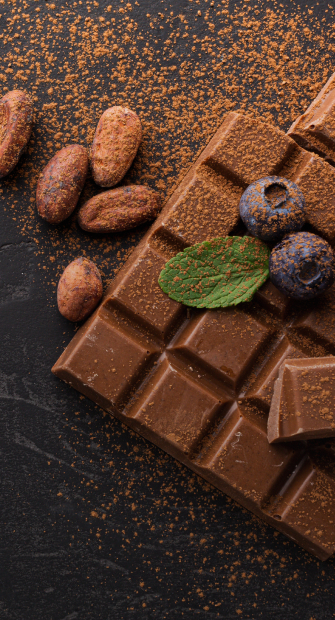
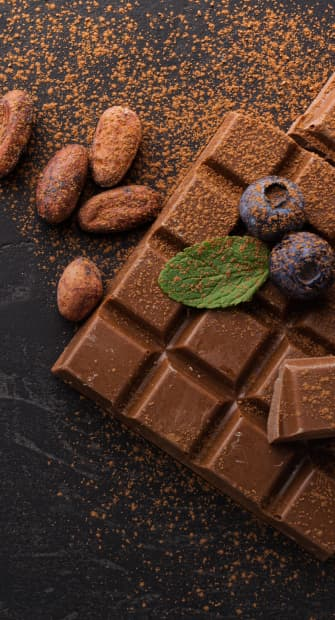
se agrego optimizacion a las imagenes

diff --git a/css/main.min.css b/css/main.min.css
@@ -1,1 +1,1 @@
-body{background-color:#fafafa}.modalDialog{position:fixed;font-family:Arial,Helvetica,sans-serif;top:0;right:0;bottom:0;left:0;background:rgba(0,0,0,.8);z-index:99999;opacity:0;-webkit-transition:opacity 400ms ease-in;-moz-transition:opacity 400ms ease-in;transition:opacity 400ms ease-in;pointer-events:none}.modalDialog:target{opacity:1;pointer-events:auto}.modalDialog>div{width:335px;position:relative;margin:10% auto;padding:28px;border-radius:15px;background:#fff;color:#111}.close{background:#606061;color:#fff;line-height:25px;position:absolute;right:-12px;text-align:center;top:-10px;width:24px;text-decoration:none;font-weight:bold;-webkit-border-radius:12px;-moz-border-radius:12px;border-radius:12px;-moz-box-shadow:1px 1px 3px #000;-webkit-box-shadow:1px 1px 3px #000;box-shadow:1px 1px 3px #000}.close:hover{background:#00d9ff}.link{text-decoration:none}.icon__header{fill:#fff;margin-top:7px}.icon__mobil-redes{fill:#fff;margin-top:395px}.icon__our{fill:#fd9222;border-radius:365px;padding:1px;border:3px solid rgba(255,255,255,.5)}.container__header{margin:0 auto;width:375px;height:50px;flex-shrink:0;padding-left:15px;padding-right:15px;outline:none;line-height:1.5;color:#212121;background-color:#fff;padding-bottom:145px;display:flex;align-items:center;justify-content:flex-start;padding-top:25px}.menu-toggle{margin-left:125px;margin-top:10px}.menu-toggle:hover,.menu-toggle:focus{background-color:rgba(0,0,0,.1)}.menu-container{position:fixed;top:0;left:0;width:100vw;height:100vh;padding:32px;background:#1e1823;z-index:999;transform:translateX(100%);transition:transform 250ms ease-in-out}.menu-container.is-open{transform:translateX(0)}.menu-container .menu-toggle{position:absolute;top:16px;right:16px;color:#fff}.mobile-menu{padding:0;margin:0;list-style:none}.mobile-menu .link{display:block;padding:10px;color:#fff;text-decoration:none}.header__menu{list-style:none;display:none}.header__title{color:#111;font-family:Montserrat;font-size:14px;font-style:italic;font-weight:700;line-height:18px;letter-spacing:-0.42px;text-transform:uppercase;margin-top:15px;display:inline-block;margin-right:5px}.main__img{position:relative;top:181px;margin:0 auto;width:335px;height:621px;background-image:url("../images/chocolate-covered-cocoa-powder 1.jpg");background-size:335px 621px;border-radius:30px}.main__title{color:#fff;font-family:Montserrat;font-size:20px;font-style:normal;font-weight:500;line-height:24px;letter-spacing:-0.6px;width:273px;height:72px;flex-shrink:0;position:absolute;top:390px;left:35px}.main__buttons{position:absolute;top:502px;left:27px}.main__button{color:#fff;font-family:Montserrat;font-size:14px;font-style:normal;font-weight:600;line-height:normal;padding:12px 28px;border-radius:100px;border:1px solid #fff;flex-shrink:0;background:none}.main__button:hover{background:#fd9222}.main__foot{position:absolute;top:570px;left:40px}.main__paragraph{color:#fff;font-family:Montserrat;font-size:12px;font-style:normal;font-weight:500;line-height:14px;letter-spacing:-0.36px}.icon__main-redes{fill:#fff}.our__service{margin-top:415px;background:#1e1823;padding:20px;width:375px;margin:372px auto 0px}.our__list{list-style:none;padding-left:25px}.our__title{color:#fff;font-family:Montserrat;font-size:18px;font-style:normal;font-weight:600;line-height:normal}.our__paragraph{color:rgba(255,255,255,.7);font-family:Montserrat;font-size:14px;font-style:normal;font-weight:400;line-height:normal;letter-spacing:-0.28px;width:308px}.recipe__title{width:330px;height:72px;flex-shrink:0;color:#111;text-align:center;font-family:Montserrat;font-size:20px;font-style:normal;font-weight:600;line-height:24px;letter-spacing:-0.6px;text-transform:uppercase;margin:0 auto;padding:72px 44px 87px 44px}.recipe__span{color:#fd9222;font-family:Montserrat;font-size:20px;font-style:normal;font-weight:600;line-height:24px;letter-spacing:-0.6px;text-transform:uppercase}.recipe__paragraph{width:350px;color:#111;text-align:center;font-family:Montserrat;font-size:14px;font-style:normal;font-weight:400;line-height:18px;letter-spacing:-0.28px;margin:0 auto}.gallery__img{list-style:none;text-align:none;width:335px;height:270px;flex-shrink:0}.img{padding:25px 56px}.img1{border-radius:15px;background:#fd9222;color:#fff;position:absolute;top:20px;left:25px}.img2{border-radius:15px;border:1px solid #fd9222;background:#fff;color:#111;position:absolute;top:320px;left:25px}.img3{border-radius:15px;background:#1e1823;color:#fff;position:absolute;top:620px;left:25px}.img4{border-radius:15px;border:1px solid #fd9222;background:#fff;color:#111;position:absolute;top:920px;left:25px}.gallery__list{width:375px;margin:0 auto;position:relative}.gallery__span{font-family:Montserrat;font-size:14px;font-style:normal;font-weight:600;line-height:18px;letter-spacing:-0.28px;text-transform:uppercase;margin:28px;text-decoration:none}.gallery__buttons{display:flex;gap:20px}.gallery__button{display:flex;padding:6px 16px;justify-content:center;align-items:center;gap:4px;border-radius:35px;border:1px solid #fd9222;background:#fafafa}.gallery__button:hover{background:#fd9222}.made{width:375px;padding:25px;margin:1191px auto 0px}.made__title{text-align:center;color:#111;text-align:center;font-family:Montserrat;font-size:20px;font-style:normal;font-weight:600;line-height:24px;letter-spacing:-0.6px;text-transform:uppercase}.made__span{color:#fd9222;font-family:Montserrat;font-size:20px;font-style:normal;font-weight:600;line-height:24px;letter-spacing:-0.6px;text-transform:uppercase}.made__div-text{padding:14px}.made__subtitle{width:307px;color:#111;font-family:Montserrat;font-size:18px;font-style:normal;font-weight:600;line-height:24px}.made__list{padding-left:20px}.made__item{color:#111;font-family:Montserrat;font-size:14px;font-style:normal;font-weight:400;line-height:18px;letter-spacing:-0.28px;width:291px}.made__img{margin:0 auto;width:335px;height:621px;background-image:url("../images/image-video1.png");background-size:335px 621px}@media screen and (min-width: 768px){.container__header{width:768px;height:50px;padding-left:15px;padding-right:15px;line-height:1.5;color:#212121;padding-bottom:150px}.menu-container{position:fixed;top:0;left:0;width:100vw;height:100vh;padding:32px;background:#1e1823;z-index:999;transform:translateX(100%);transition:transform 250ms ease-in-out}.header__section .container__header{min-height:80px;display:flex;align-items:center}.menu-toggle{margin-left:520px}.header__menu{display:none;padding:0;margin:0;list-style:none}.main__img{position:relative;top:329px;margin:0 auto;width:704px;height:890px;background-image:url("../images/chocolate-covered-cocoa-powder 2.jpg");background-size:704px 890px}.main__title{top:660px;width:484px;font-size:28px;font-weight:500;line-height:34px;letter-spacing:-0.84px}.main__buttons{top:800px}.main__foot{top:808px;left:621px}.our__service{margin-top:675px;width:768px}.our__list{display:flex;gap:60px;flex-wrap:wrap}.recipe__title{width:470px}.recipe__paragraph{width:495px}.gallery{width:768px}.gallery__list{gap:32px;margin-left:-92px;width:768px}.img1{top:40px;left:225px}.img2{top:40px;left:600px}.img3{top:350px;left:225px}.img4{top:350px;left:600px}.made{padding:5px;width:768px;padding-right:30px;margin:632px auto 0px}.made__img{width:614px;background-image:url("../images/image-video2.png");background-size:614px 400px}.made__div-text{width:550px}.made__subtitle{width:350px;color:#111;font-family:Montserrat;font-size:18px;font-style:normal;font-weight:600;line-height:24px}.made__list{width:550px}.made__item{width:464px;color:#111;font-family:Montserrat;font-size:14px;font-style:normal;font-weight:400;line-height:18px;letter-spacing:-0.28px;padding-top:18px}}@media screen and (min-width: 768px)and (min-width: 1280px){.container__header{width:1280px;height:50px;padding-left:15px;padding-right:15px;margin-left:auto;margin-right:auto;line-height:1.5;color:#212121}.header__desktop{gap:24px;color:#111;font-family:Montserrat;font-size:14px;font-style:normal;font-weight:500;line-height:16px;letter-spacing:-0.28px}.redes{margin-left:160px}.icon__header{margin-right:188px}.icon__header-redes{margin-right:18px;fill:#111;margin-top:7px}.menu-container{display:none}.menu-toggle{display:none}.header__menu{display:block;display:flex;gap:30px}.header__title{margin-left:32px}.main__img{position:relative;top:166px;margin:0 auto;width:1136px;height:600px;background-image:url("../images/chocolate-covered-cocoa-powder 3.jpg");background-size:1136px 600px}.main__title{width:484px;top:380px}.main__buttons{top:520px}.main__foot{top:533px;left:980px}.our__service{padding:0px;margin-top:360px;width:1280px}.our__list{padding:60px;gap:110px}.gallery{width:1280px}.gallery__list{margin-left:60px}.gallery__img{width:225px;height:225px}.gallery__span{margin:15px}.img{padding:5px}.img1{top:40px;left:70px}.img2{top:40px;left:360px}.img3{top:40px;left:660px}.img4{top:40px;left:950px}.made{padding:5px;width:1280px;padding-right:30px;margin:315px auto 0px}.made__subtitle{padding-top:28px}.made__box{display:flex;gap:5px}.made__img{width:604px;height:400px;margin-top:40px;margin-right:20px}.made__div-text{width:462px;padding:32px;margin-right:60px}.made__item{width:404px;padding-top:24px}}/*# sourceMappingURL=main.min.css.map */
+body{background-color:#fafafa}.modalDialog{position:fixed;font-family:Arial,Helvetica,sans-serif;top:0;right:0;bottom:0;left:0;background:rgba(0,0,0,.8);z-index:99999;opacity:0;-webkit-transition:opacity 400ms ease-in;-moz-transition:opacity 400ms ease-in;transition:opacity 400ms ease-in;pointer-events:none}.modalDialog:target{opacity:1;pointer-events:auto}.modalDialog>div{width:335px;position:relative;margin:10% auto;padding:28px;border-radius:15px;background:#fff;color:#111}.close{background:#606061;color:#fff;line-height:25px;position:absolute;right:-12px;text-align:center;top:-10px;width:24px;text-decoration:none;font-weight:bold;-webkit-border-radius:12px;-moz-border-radius:12px;border-radius:12px;-moz-box-shadow:1px 1px 3px #000;-webkit-box-shadow:1px 1px 3px #000;box-shadow:1px 1px 3px #000}.close:hover{background:#00d9ff}.link{text-decoration:none}.icon__header{fill:#fff;margin-top:7px}.icon__mobil-redes{fill:#fff;margin-top:395px}.icon__our{fill:#fd9222;border-radius:365px;padding:1px;border:3px solid rgba(255,255,255,.5)}.container__header{margin:0 auto;width:375px;height:50px;flex-shrink:0;padding-left:15px;padding-right:15px;outline:none;line-height:1.5;color:#212121;background-color:#fff;padding-bottom:145px;display:flex;align-items:center;justify-content:flex-start;padding-top:25px}.menu-toggle{margin-left:125px;margin-top:10px}.menu-toggle:hover,.menu-toggle:focus{background-color:rgba(0,0,0,.1)}.menu-container{position:fixed;top:0;left:0;width:100vw;height:100vh;padding:32px;background:#1e1823;z-index:999;transform:translateX(100%);transition:transform 250ms ease-in-out}.menu-container.is-open{transform:translateX(0)}.menu-container .menu-toggle{position:absolute;top:16px;right:16px;color:#fff}.mobile-menu{padding:0;margin:0;list-style:none}.mobile-menu .link{display:block;padding:10px;color:#fff;text-decoration:none}.header__menu{list-style:none;display:none}.header__title{color:#111;font-family:Montserrat;font-size:14px;font-style:italic;font-weight:700;line-height:18px;letter-spacing:-0.42px;text-transform:uppercase;margin-top:15px;display:inline-block;margin-right:5px}.main__img{position:relative;top:181px;margin:0 auto;width:335px;height:621px;background-image:url("../images/chocolate-covered-cocoa-powder 1.jpg");background-size:335px 621px;border-radius:30px}.main__title{color:#fff;font-family:Montserrat;font-size:20px;font-style:normal;font-weight:500;line-height:24px;letter-spacing:-0.6px;width:273px;height:72px;flex-shrink:0;position:absolute;top:390px;left:35px}.main__buttons{position:absolute;top:502px;left:27px}.main__button{color:#fff;font-family:Montserrat;font-size:14px;font-style:normal;font-weight:600;line-height:normal;padding:12px 28px;border-radius:100px;border:1px solid #fff;flex-shrink:0;background:none}.main__button:hover{background:#fd9222}.main__foot{position:absolute;top:570px;left:40px}.main__paragraph{color:#fff;font-family:Montserrat;font-size:12px;font-style:normal;font-weight:500;line-height:14px;letter-spacing:-0.36px}.icon__main-redes{fill:#fff}.our__service{margin-top:415px;background:#1e1823;padding:20px;width:375px;margin:372px auto 0px}.our__list{list-style:none;padding-left:25px}.our__title{color:#fff;font-family:Montserrat;font-size:18px;font-style:normal;font-weight:600;line-height:normal}.our__paragraph{color:rgba(255,255,255,.7);font-family:Montserrat;font-size:14px;font-style:normal;font-weight:400;line-height:normal;letter-spacing:-0.28px;width:308px}.recipe__title{width:330px;height:72px;flex-shrink:0;color:#111;text-align:center;font-family:Montserrat;font-size:20px;font-style:normal;font-weight:600;line-height:24px;letter-spacing:-0.6px;text-transform:uppercase;margin:0 auto;padding:72px 44px 87px 44px}.recipe__span{color:#fd9222;font-family:Montserrat;font-size:20px;font-style:normal;font-weight:600;line-height:24px;letter-spacing:-0.6px;text-transform:uppercase}.recipe__paragraph{width:350px;color:#111;text-align:center;font-family:Montserrat;font-size:14px;font-style:normal;font-weight:400;line-height:18px;letter-spacing:-0.28px;margin:0 auto}.gallery__img{list-style:none;text-align:none;width:335px;height:270px;flex-shrink:0}.img{padding:25px 56px}.img1{border-radius:15px;background:#fd9222;color:#fff;position:absolute;top:20px;left:25px}.img2{border-radius:15px;border:1px solid #fd9222;background:#fff;color:#111;position:absolute;top:320px;left:25px}.img3{border-radius:15px;background:#1e1823;color:#fff;position:absolute;top:620px;left:25px}.img4{border-radius:15px;border:1px solid #fd9222;background:#fff;color:#111;position:absolute;top:920px;left:25px}.gallery__list{width:375px;margin:0 auto;position:relative}.gallery__span{font-family:Montserrat;font-size:14px;font-style:normal;font-weight:600;line-height:18px;letter-spacing:-0.28px;text-transform:uppercase;margin:28px;text-decoration:none}.gallery__buttons{display:flex;gap:20px}.gallery__button{display:flex;padding:6px 16px;justify-content:center;align-items:center;gap:4px;border-radius:35px;border:1px solid #fd9222;background:#fafafa}.gallery__button:hover{background:#fd9222}.made{width:375px;padding:25px;margin:1191px auto 0px}.made__title{text-align:center;color:#111;text-align:center;font-family:Montserrat;font-size:20px;font-style:normal;font-weight:600;line-height:24px;letter-spacing:-0.6px;text-transform:uppercase}.made__span{color:#fd9222;font-family:Montserrat;font-size:20px;font-style:normal;font-weight:600;line-height:24px;letter-spacing:-0.6px;text-transform:uppercase}.made__div-text{padding:14px}.made__subtitle{width:307px;color:#111;font-family:Montserrat;font-size:18px;font-style:normal;font-weight:600;line-height:24px}.made__list{padding-left:20px}.made__item{color:#111;font-family:Montserrat;font-size:14px;font-style:normal;font-weight:400;line-height:18px;letter-spacing:-0.28px;width:291px}.made__img{margin:0 auto;width:335px;height:621px;background-image:url("../images/image-video1.png");background-size:335px 621px}@media screen and (min-width: 768px){.container__header{width:768px;height:50px;padding-left:15px;padding-right:15px;line-height:1.5;color:#212121;padding-bottom:150px}.menu-container{position:fixed;top:0;left:0;width:100vw;height:100vh;padding:32px;background:#1e1823;z-index:999;transform:translateX(100%);transition:transform 250ms ease-in-out}.header__section .container__header{min-height:80px;display:flex;align-items:center}.menu-toggle{margin-left:520px}.header__menu{display:none;padding:0;margin:0;list-style:none}.main__img{position:relative;top:329px;margin:0 auto;width:704px;height:890px;background-image:url("../images/chocolate-covered-cocoa-powder 2.jpg");background-size:704px 890px}.main__title{top:660px;width:484px;font-size:28px;font-weight:500;line-height:34px;letter-spacing:-0.84px}.main__buttons{top:800px}.main__foot{top:808px;left:621px}.our__service{margin-top:675px;width:768px}.our__list{display:flex;gap:60px;flex-wrap:wrap}.recipe__title{width:470px}.recipe__paragraph{width:495px}.gallery{width:768px;margin:0 auto}.gallery__list{gap:32px;margin-left:-92px;width:768px}.img1{top:40px;left:100px}.img2{top:40px;left:500px}.img3{top:350px;left:100px}.img4{top:350px;left:500px}.made{padding:5px;width:768px;padding-right:30px;margin:632px auto 0px}.made__img{width:614px;background-image:url("../images/image-video2.png");background-size:614px 625px}.made__div-text{width:550px}.made__subtitle{width:350px;color:#111;font-family:Montserrat;font-size:18px;font-style:normal;font-weight:600;line-height:24px}.made__list{width:550px}.made__item{width:464px;color:#111;font-family:Montserrat;font-size:14px;font-style:normal;font-weight:400;line-height:18px;letter-spacing:-0.28px;padding-top:18px}}@media screen and (min-width: 768px)and (min-width: 1280px){.container__header{width:1280px;height:50px;padding-left:15px;padding-right:15px;margin-left:auto;margin-right:auto;line-height:1.5;color:#212121}.header__desktop{gap:24px;color:#111;font-family:Montserrat;font-size:14px;font-style:normal;font-weight:500;line-height:16px;letter-spacing:-0.28px}.redes{margin-left:160px}.icon__header{margin-right:188px}.icon__header-redes{margin-right:18px;fill:#111;margin-top:7px}.menu-container{display:none}.menu-toggle{display:none}.header__menu{display:block;display:flex;gap:30px}.header__title{margin-left:32px}.main__img{position:relative;top:166px;margin:0 auto;width:1136px;height:600px;background-image:url("../images/chocolate-covered-cocoa-powder 3.jpg");background-size:1136px 600px}.main__title{width:484px;top:380px}.main__buttons{top:520px}.main__foot{top:533px;left:980px}.our__service{padding:0px;margin-top:360px;width:1280px}.our__list{padding:60px;gap:110px}.gallery{width:1280px;margin:0 auto}.gallery__list{margin-left:60px}.gallery__img{width:225px;height:225px}.gallery__span{margin:15px}.img{padding:5px}.img1{top:40px;left:0px}.img2{top:40px;left:310px}.img3{top:40px;left:630px}.img4{top:40px;left:950px}.made{padding:5px;width:1280px;padding-right:30px;margin:315px auto 0px}.made__subtitle{padding-top:28px}.made__box{display:flex;gap:5px}.made__img{width:604px;margin-top:40px;margin-right:20px;height:400px;background-size:cover}.made__div-text{width:462px;padding:32px;margin-right:60px}.made__item{width:404px;padding-top:24px}}/*# sourceMappingURL=main.min.css.map */

diff --git a/sass/main.scss b/sass/main.scss
@@ -632,6 +632,7 @@ body {
 
     .gallery {
         width: 768px;
+        margin: 0 auto;
     }
 
     .gallery__list {
@@ -647,14 +648,14 @@ body {
 
 
         top: 40px;
-        left: 225px;
+        left: 100px;
 
     }
 
     .img2 {
 
         top: 40px;
-        left: 600px;
+        left: 500px;
 
 
     }
@@ -663,14 +664,14 @@ body {
 
         top: 350px;
 
-        left: 225px;
+        left: 100px;
     }
 
     .img4 {
 
         top: 350px;
 
-        left: 600px;
+        left: 500px;
     }
 
     .made {
@@ -686,7 +687,7 @@ body {
         // height: 890px;
 
         background-image: url("../images/image-video2.png");
-        background-size: 614px 400px;
+        background-size: 614px 625px;
     }
 
     .made__div-text {
@@ -822,6 +823,7 @@ body {
 
         .gallery {
             width: 1280px;
+            margin: 0 auto;
         }
 
         .gallery__list {
@@ -846,14 +848,14 @@ body {
 
 
             top: 40px;
-            left: 70px;
+            left: 0px;
 
         }
 
         .img2 {
 
             top: 40px;
-            left: 360px;
+            left: 310px;
 
 
         }
@@ -862,7 +864,7 @@ body {
 
             top: 40px;
 
-            left: 660px;
+            left: 630px;
         }
 
         .img4 {
@@ -890,11 +892,14 @@ body {
 
         .made__img {
             width: 604px;
-            height: 400px;
+
             margin-top: 40px;
             margin-right: 20px;
+            height: 400px;
+            background-size: cover;
 
         }
+
 
         .made__div-text {
             width: 462px;
